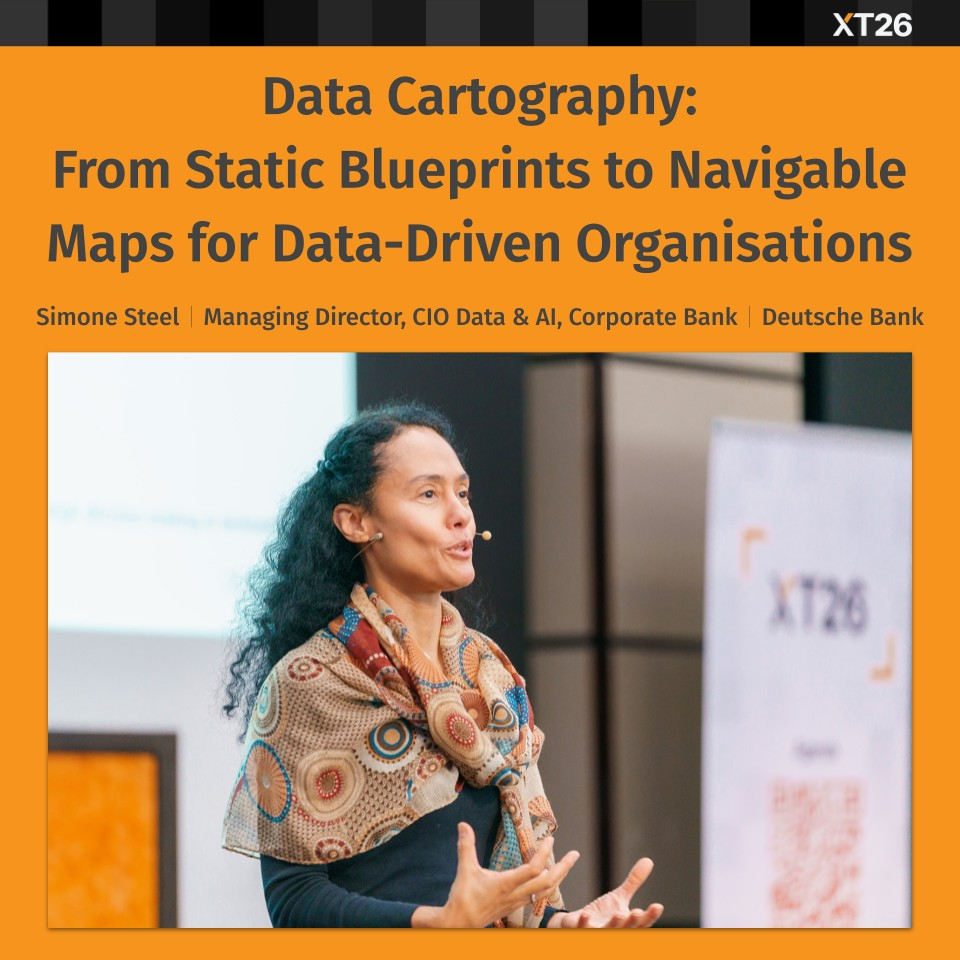
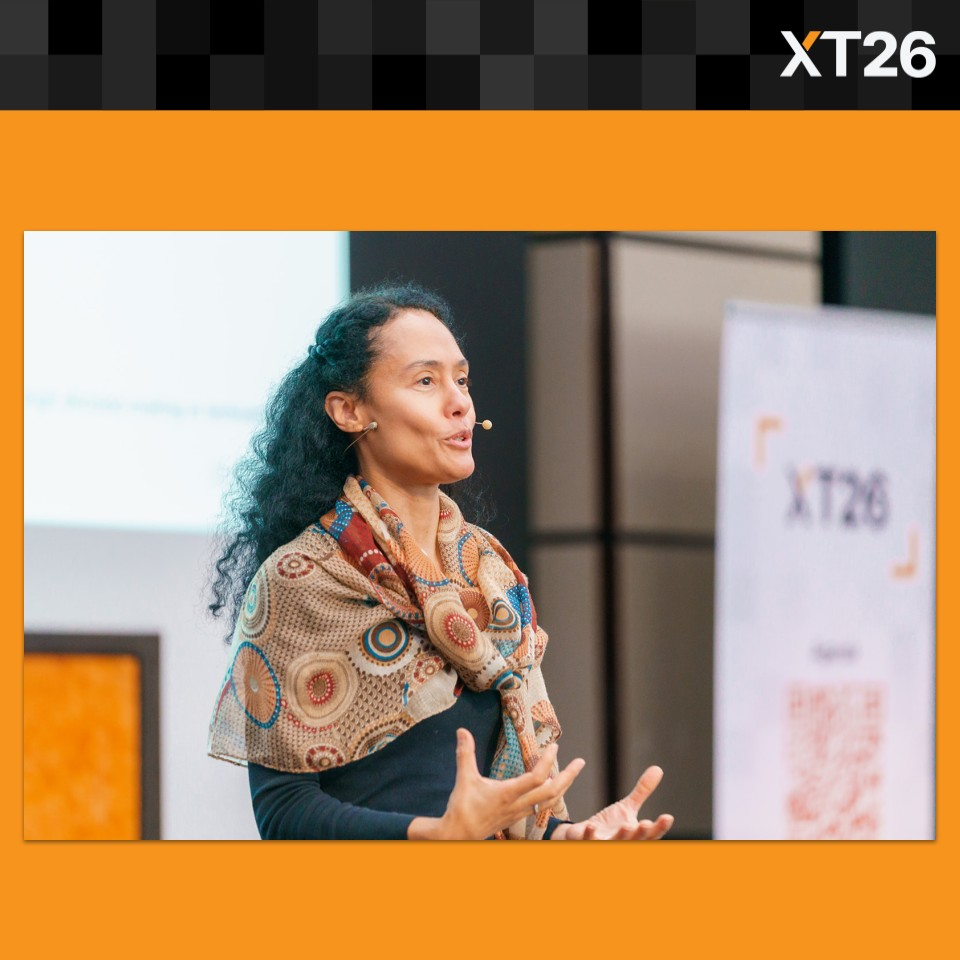
Update Simone Steel post title and hero/OG image
- Title now includes speaker name/affiliation: - Simone Steel, Deutsche Bank
- Update hero/OG image

diff --git a/src/pages/blog/xt26-simone-steel-data-cartography.md b/src/pages/blog/xt26-simone-steel-data-cartography.md
@@ -1,6 +1,6 @@
 ---
 author: 'jdt'
-title: 'XT26 Talks: Data Cartography: From Static Blueprints to Navigable Maps for Data-Driven Organisations'
+title: 'XT26 Talks: Data Cartography: From Static Blueprints to Navigable Maps for Data-Driven Organisations – Simone Steel, Deutsche Bank'
 description: 'How Data Cartography provides the shared visual grammar needed for meaningful conversations in a complex world'
 category: 'conference'
 layout: '../../layouts/BlogPost.astro'
